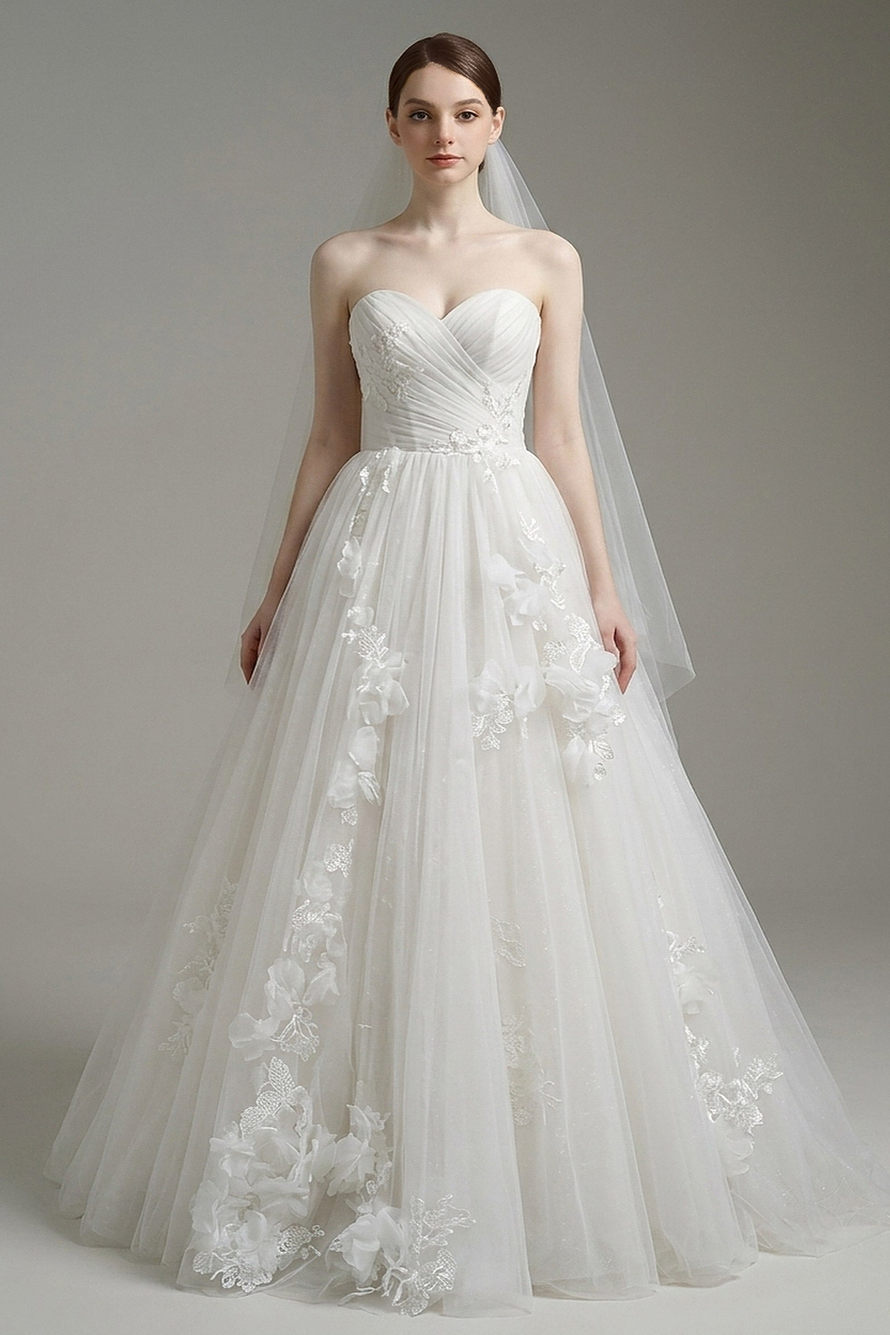
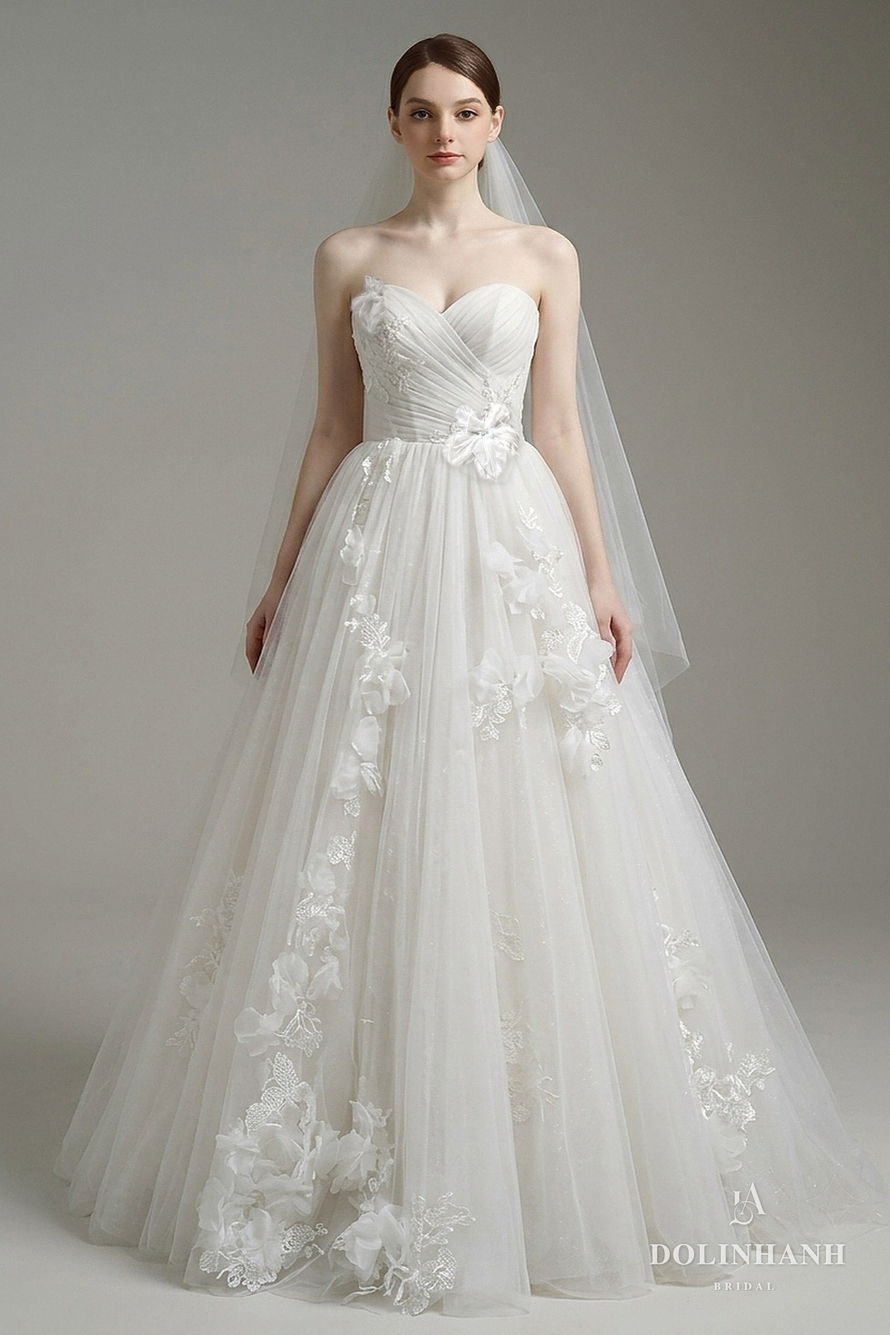
V179: sua anh MS 151: them 2 no voan theo vay that

diff --git a/bo-suu-tap.html b/bo-suu-tap.html
@@ -1495,7 +1495,7 @@ src="https://www.facebook.com/tr?id=1358640082651240&ev=PageView&noscript=1"
         </figure>
         <figure data-dang="a-line" data-mood="romantic" data-coso="hcm">
           <div class="sl-khung">
-            <div class="sl" data-img="anh/vay/ms151/01.jpg"></div>
+            <div class="sl" data-img="anh/vay/ms151/01.jpg?v=0511"></div>
           </div>
           <figcaption><span class="kind" data-en="Dolinhanh Bridal" data-zh="Dolinhanh Bridal">Dolinhanh Bridal</span><span class="nm">MS 151</span><span class="de" data-en="3D florals, tulle A-line" data-zh="立体花朵，薄纱A字型">Hoa nổi, voan chữ A</span><span class="gia">US$1,680</span></figcaption>
         </figure>
